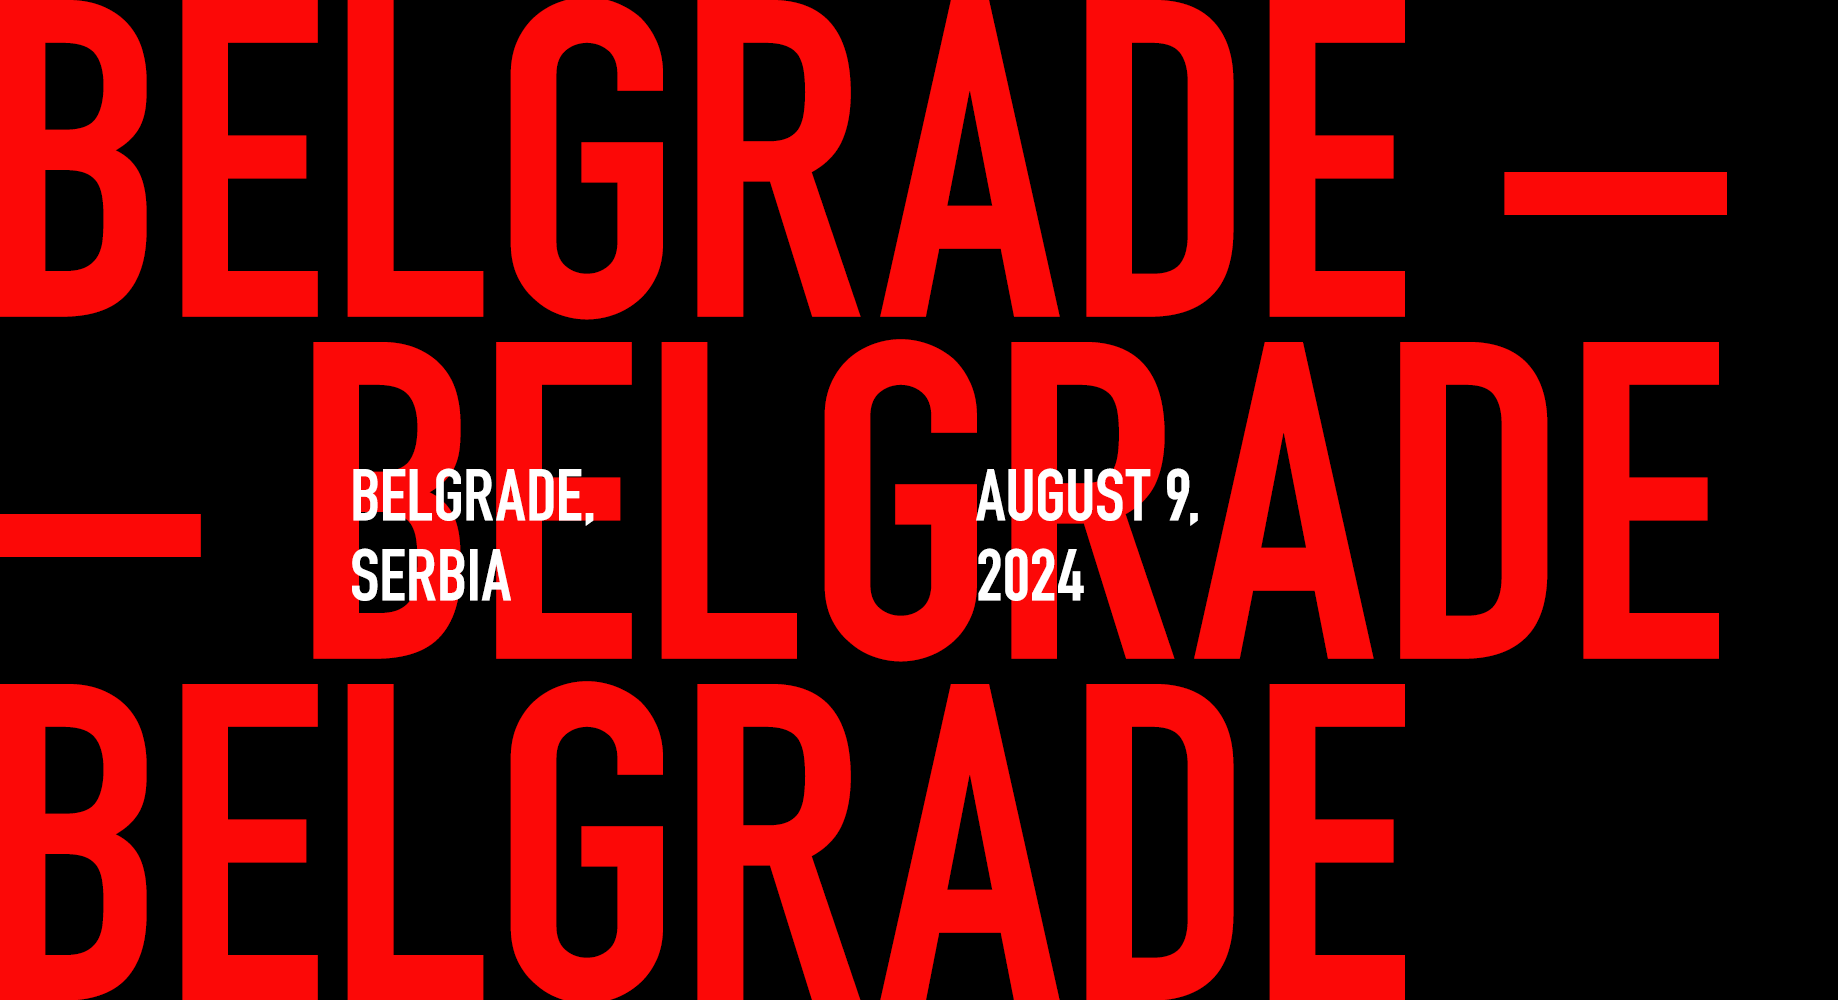
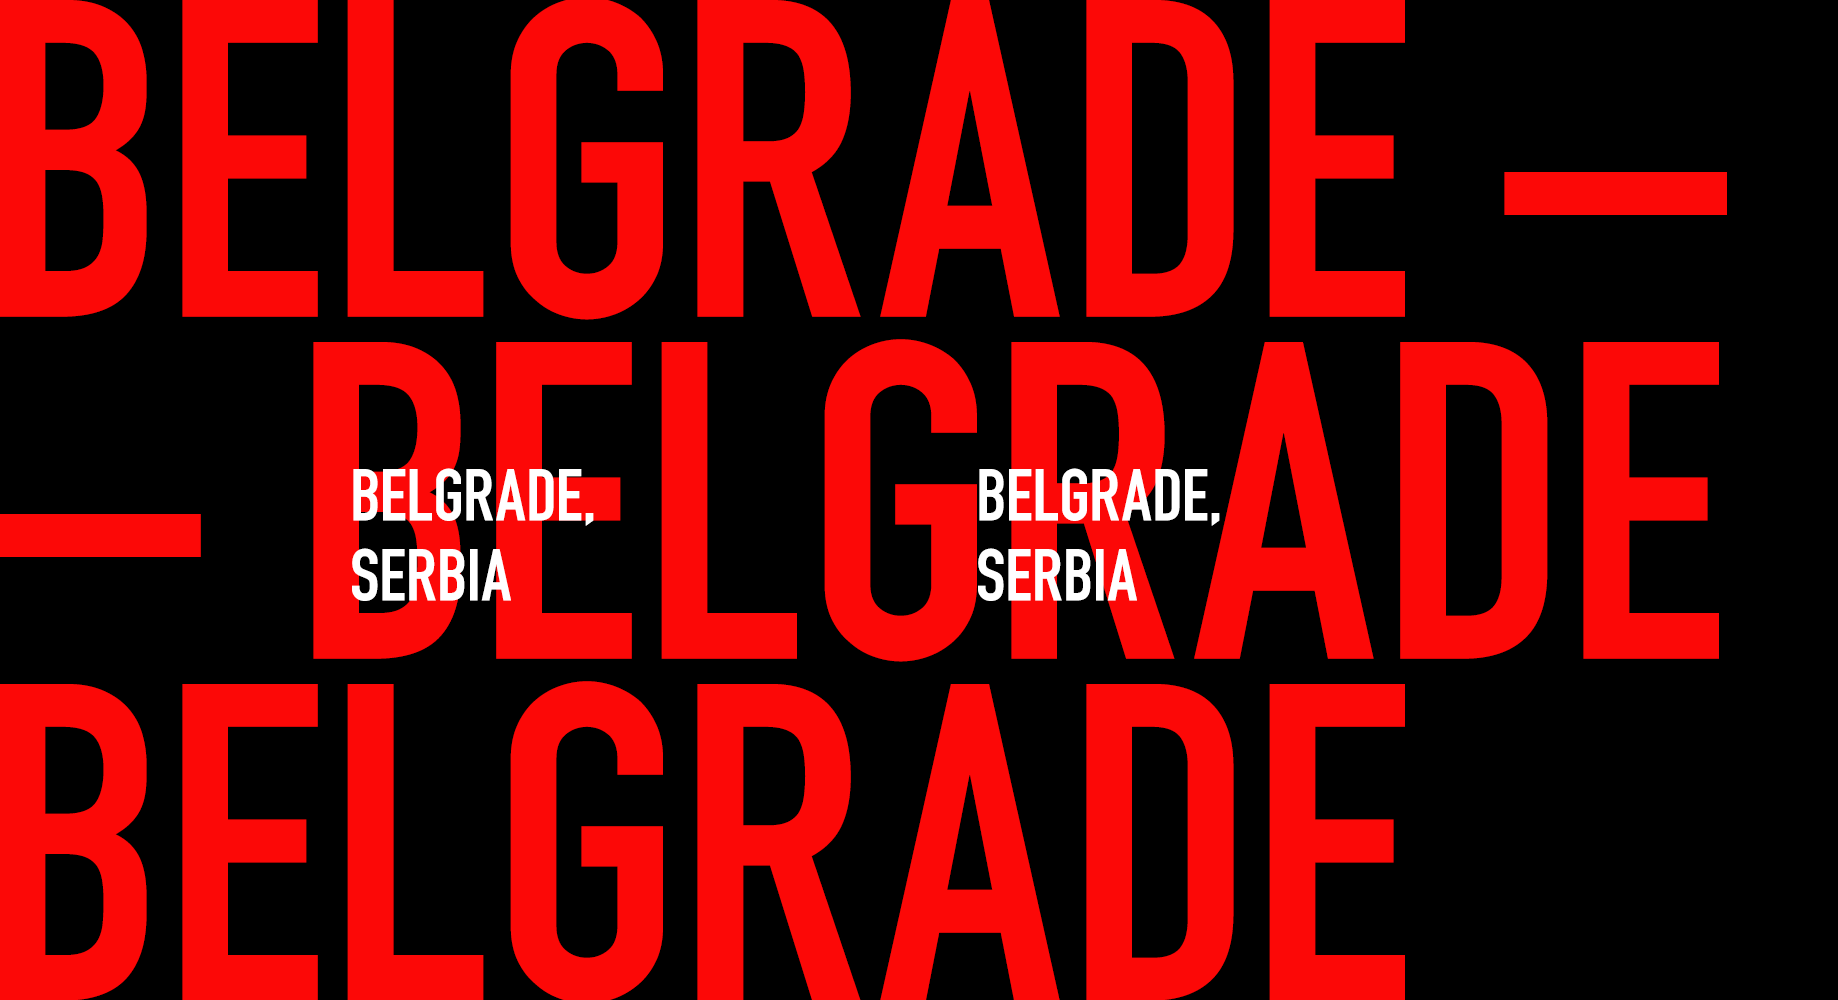
Закомментил 2ух спонсоров, сменил дату

Changed region(s): [[0.5272, 0.465, 0.6823, 0.62]]

diff --git a/src/partials/media.html b/src/partials/media.html
@@ -24,14 +24,14 @@
               <img src="img/sponsor-7.svg" loading="lazy" alt="" class="sponsors-list__image">
             </div>
           </div>
-          <div class="sponsors-list__item swiper-slide">
+          <!-- <div class="sponsors-list__item swiper-slide">
             <div class="sponsors-list__image-wrapper">
               <img src="img/sponsor-5.svg" loading="lazy" alt="" class="sponsors-list__image">
             </div>
             <div class="sponsors-list__image-wrapper">
               <img src="img/sponsor-4.svg" loading="lazy" alt="" class="sponsors-list__image">
             </div>
-          </div>
+          </div> -->
           <div class="sponsors-list__item swiper-slide">
             <div class="sponsors-list__image-wrapper">
               <img src="img/sponsor-3.svg" loading="lazy" alt="" class="sponsors-list__image">
@@ -57,14 +57,14 @@
             </div>
           </div>
 
-          <div class="sponsors-list__item swiper-slide">
+          <!-- <div class="sponsors-list__item swiper-slide">
             <div class="sponsors-list__image-wrapper">
               <img src="img/sponsor-5.svg" loading="lazy" alt="" class="sponsors-list__image">
             </div>
             <div class="sponsors-list__image-wrapper">
               <img src="img/sponsor-4.svg" loading="lazy" alt="" class="sponsors-list__image">
             </div>
-          </div>
+          </div> -->
           <div class="sponsors-list__item swiper-slide">
             <div class="sponsors-list__image-wrapper">
               <img src="img/sponsor-3.svg" loading="lazy" alt="" class="sponsors-list__image">

diff --git a/src/partials/hero.html b/src/partials/hero.html
@@ -24,7 +24,7 @@
       </picture>
       <div class="hero__label label">
         <span class="hero__label-title">Belgrade,</span>
-        <span class="hero__label-subtitle">serbia</span>
+        <span class="hero__label-subtitle">20/09/24</span>
       </div>
       <span class="hero__postscript">Conference</span>
     </div>
